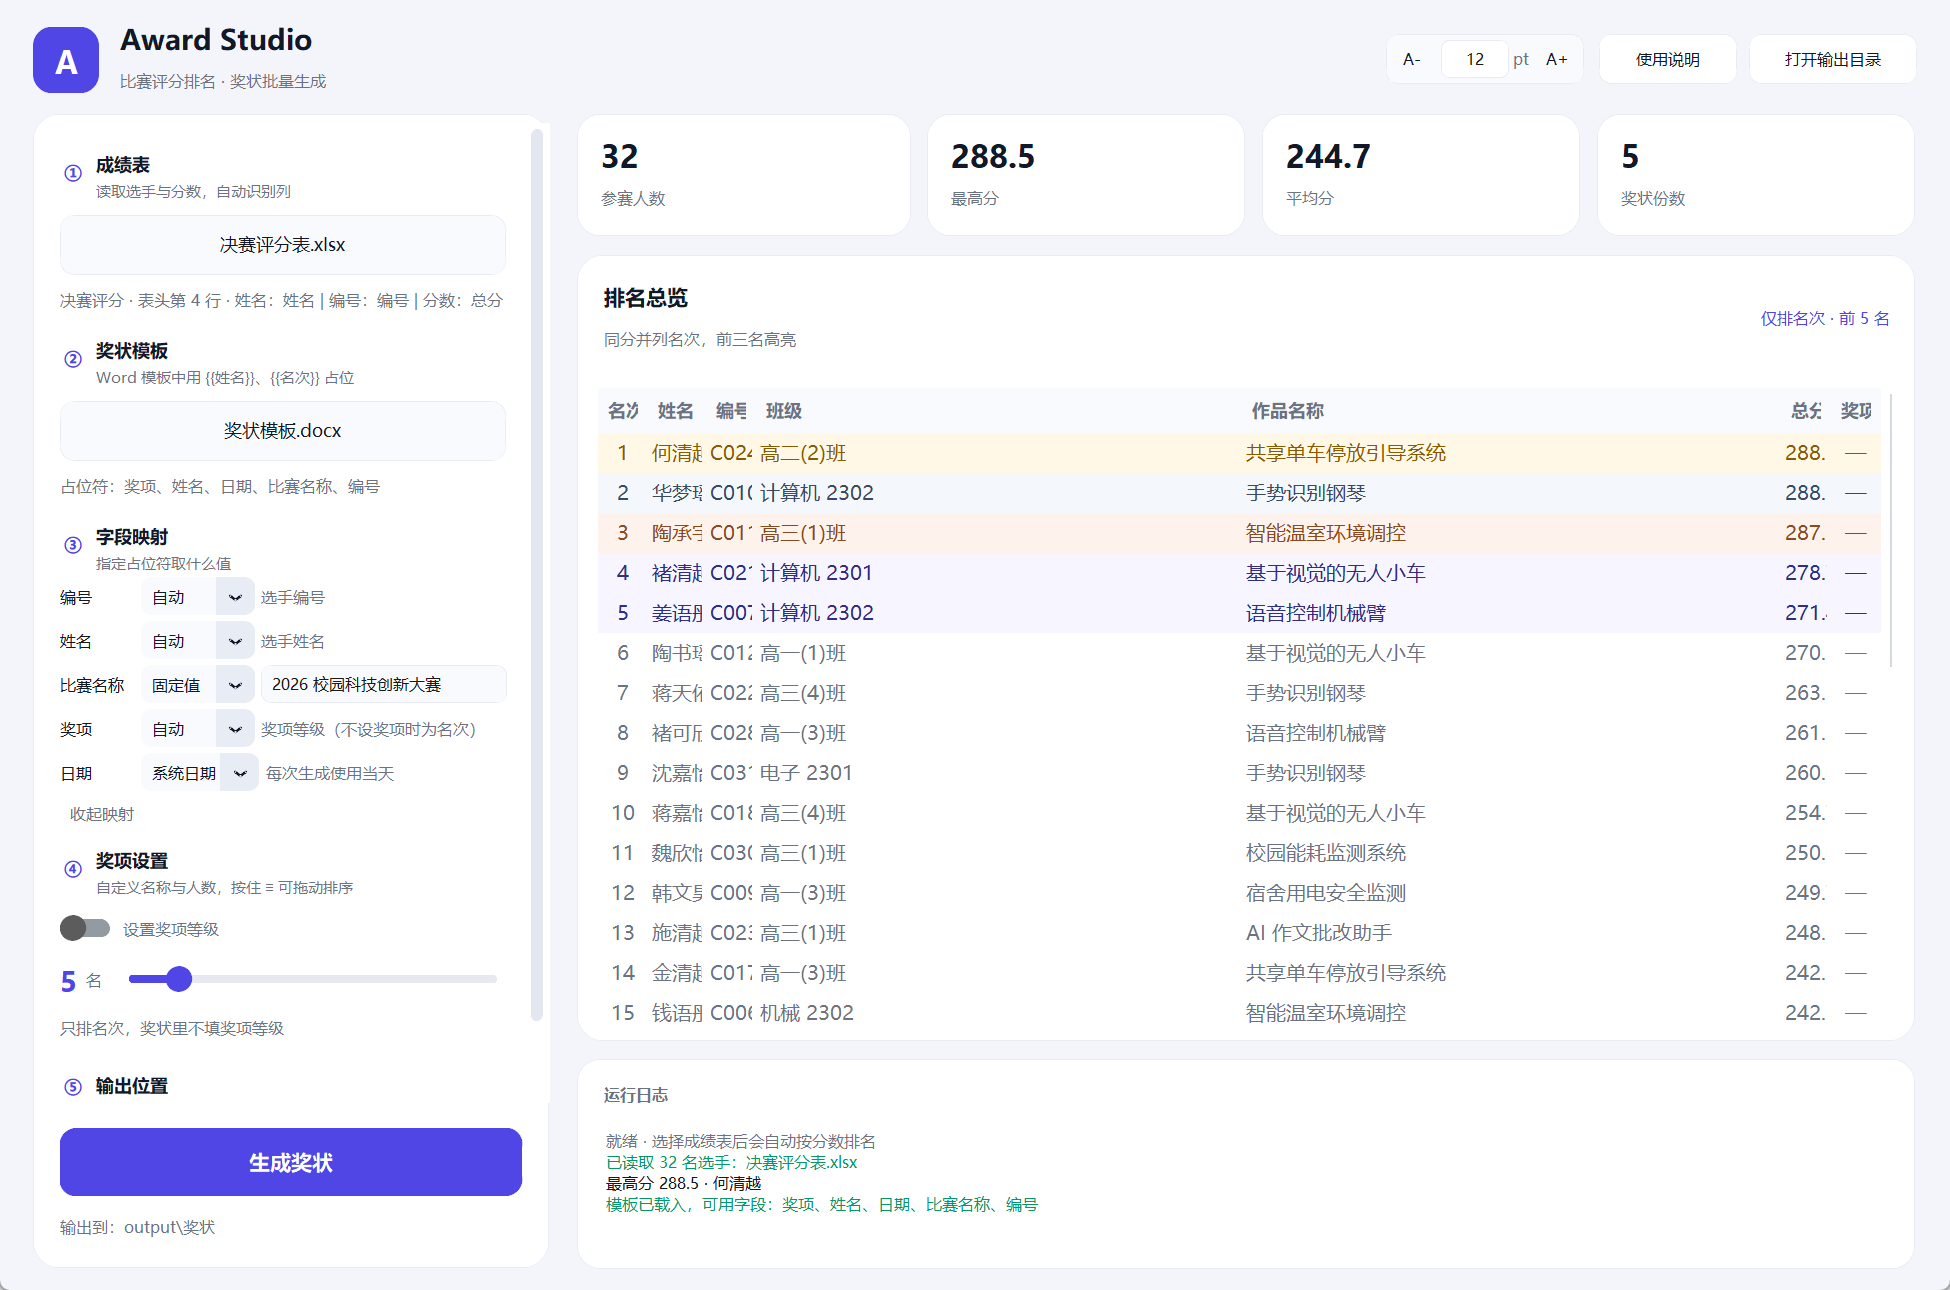
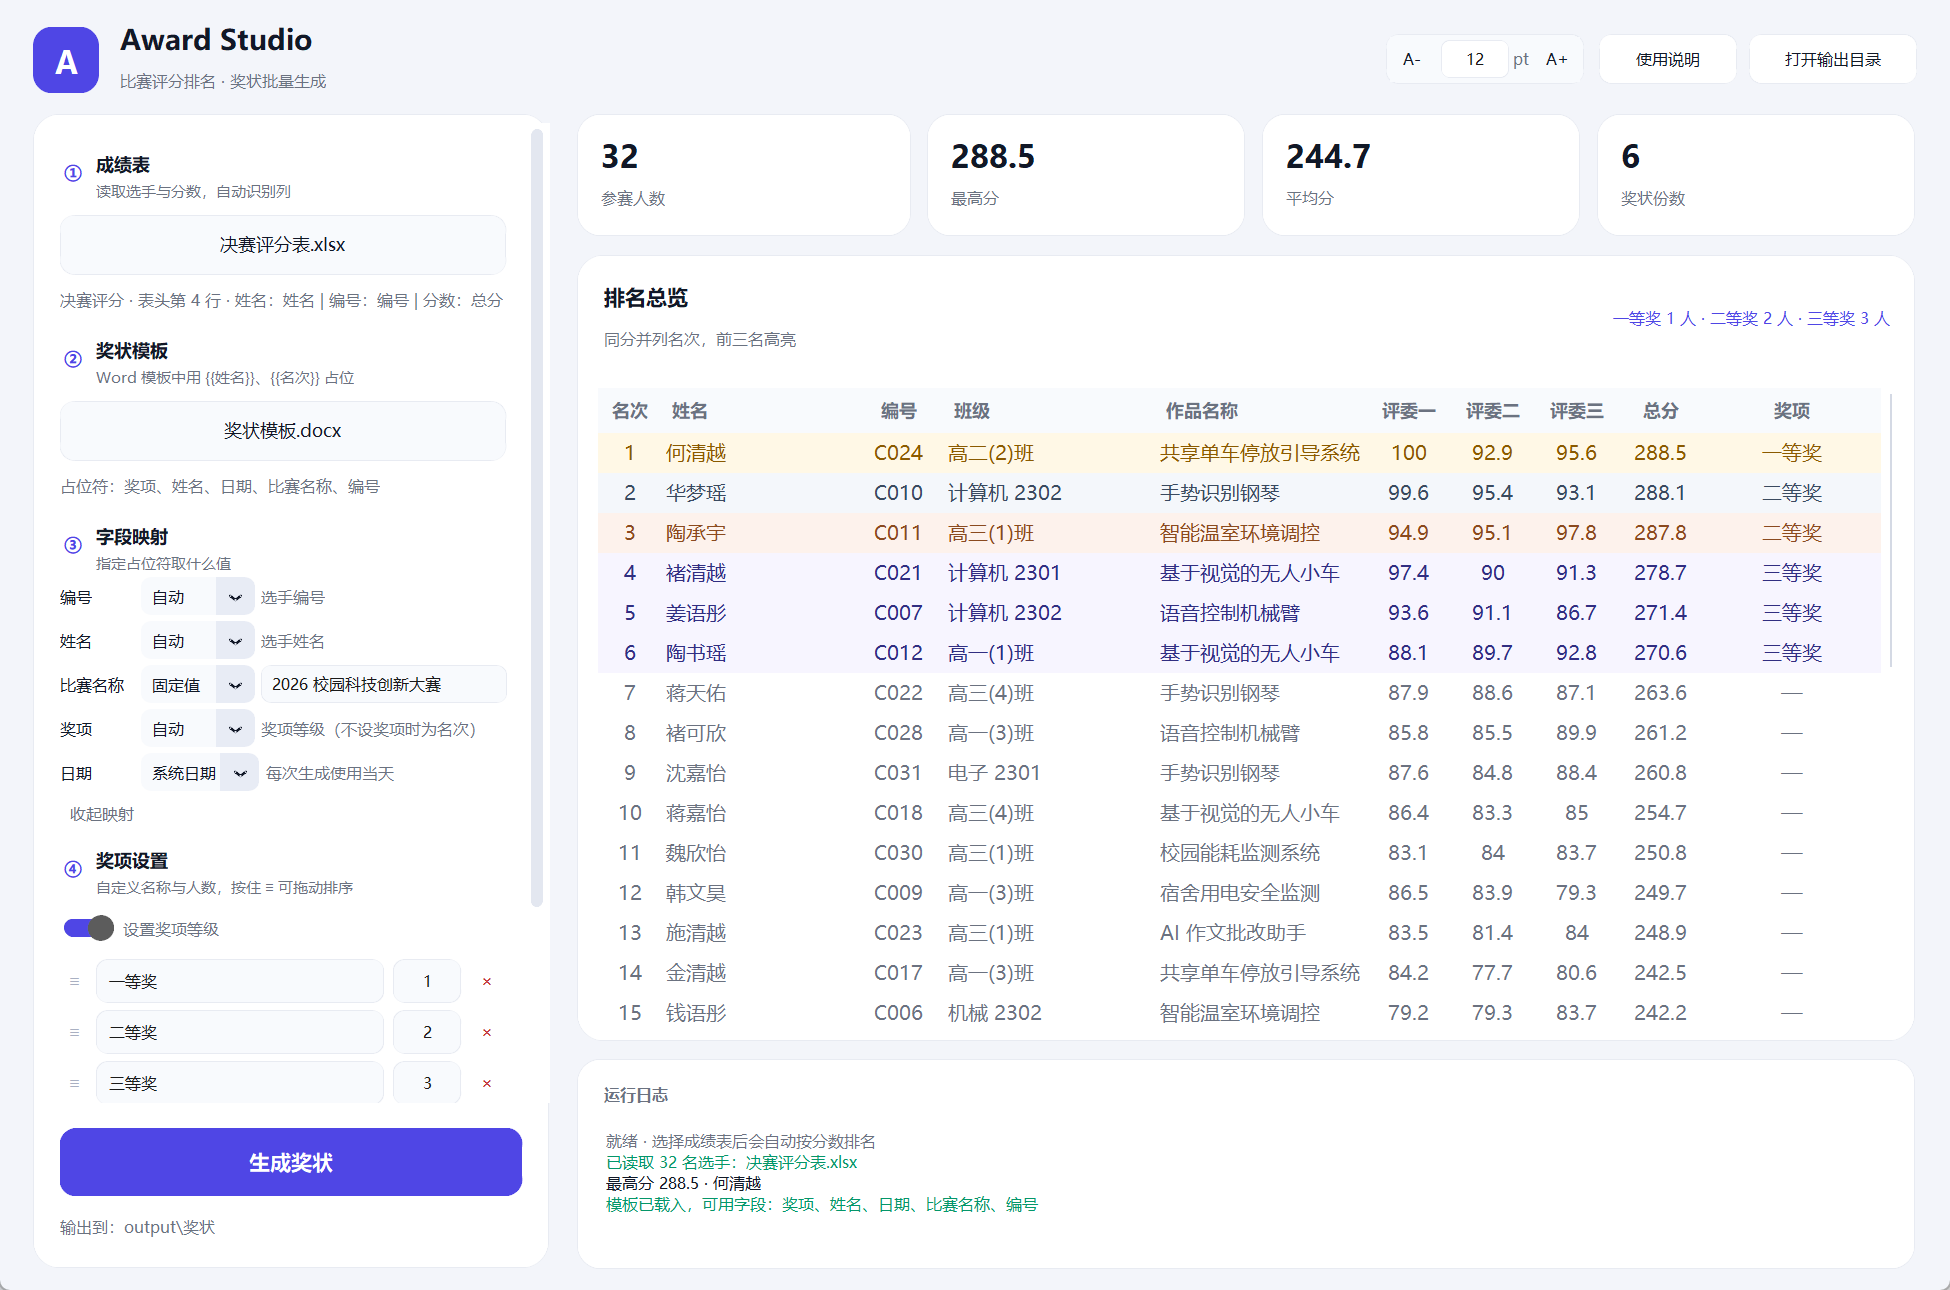
feat: 排名总览按成绩表的实际列显示
- 列由表格字段动态生成：名次 + 原始各列 + 总分 + 奖项，不再写死「班级」「作品名称」
- 整列都没有值的字段（例如表里没有编号）自动不显示
- 载入新表格时重建表格结构，列宽按内容比例分配，文本列承担富余宽度
- 奖励配色与并列名次逻辑保持不变

diff --git a/app.py b/app.py
@@ -604,16 +604,15 @@ class AwardStudio(ctk.CTk):
 
     def _fit_columns(self) -> None:
         self._resize_job = None
-        columns = (
-            ("rank", 70), ("name", 110), ("no", 90), ("class", 120),
-            ("project", 220), ("score", 90), ("award", 90),
-        )
+        columns = getattr(self, "_table_columns", None)
+        if not columns:
+            return
         try:
-            base_total = sum(base for _key, base in columns)
+            base_total = sum(width for _key, _text, width, _anchor in columns)
             available = max(420, self.tree.winfo_width() - 20)
-            factor = min(self.text_scale, 1.4, available / base_total)
-            for key, base in columns:
-                self.tree.column(key, width=max(50, int(base * factor)))
+            factor = min(self.text_scale, 1.5, max(1.0, available / base_total))
+            for key, _text, width, _anchor in columns:
+                self.tree.column(key, width=max(48, int(width * factor)))
         except Exception:  # noqa: BLE001
             pass
 
@@ -905,34 +904,10 @@ class AwardStudio(ctk.CTk):
         ctk.CTkFrame(table_card, height=1, fg_color=LINE).grid(row=1, column=0, sticky="ew",
                                                               padx=18, pady=(12, 0))
 
-        holder = ctk.CTkFrame(table_card, fg_color="transparent")
+        self.table_holder = holder = ctk.CTkFrame(table_card, fg_color="transparent")
         holder.grid(row=2, column=0, sticky="nsew", padx=(14, 8), pady=(6, 12))
         holder.grid_columnconfigure(0, weight=1)
         holder.grid_rowconfigure(0, weight=1)
-
-        columns = ("rank", "name", "no", "class", "project", "score", "award")
-        self.tree = ttk.Treeview(holder, columns=columns, show="headings", height=6,
-                                 style="Award.Treeview", selectmode="browse")
-        headings = {
-            "rank": ("名次", 70, "center"),
-            "name": ("姓名", 110, "w"),
-            "no": ("编号", 90, "center"),
-            "class": ("班级", 120, "w"),
-            "project": ("作品名称", 220, "w"),
-            "score": ("总分", 90, "center"),
-            "award": ("奖项", 90, "center"),
-        }
-        for key, (text, width, anchor) in headings.items():
-            self.tree.heading(key, text=text, anchor=anchor)
-            self.tree.column(key, width=width, anchor=anchor,
-                             stretch=key in ("project", "class"))
-        self.tree.grid(row=0, column=0, sticky="nsew")
-
-        self.table_scrollbar = scrollbar = ctk.CTkScrollbar(
-            holder, command=self.tree.yview, fg_color="transparent",
-            button_color="#D4D9E4", button_hover_color="#B9C0D0", width=10)
-        scrollbar.grid(row=0, column=1, sticky="ns", padx=(2, 4))
-        self.tree.configure(yscrollcommand=scrollbar.set)
 
         # 没有数据时显示占位提示，而不是一张空表格
         self.empty_panel = ctk.CTkFrame(holder, fg_color="transparent")
@@ -948,12 +923,8 @@ class AwardStudio(ctk.CTk):
             font=self.font_small, text_color="#A7AFC0", justify="center")
         self.empty_hint.pack()
 
-        self.tree.tag_configure("first", background="#FFF8E6", foreground="#8A5A00")
-        self.tree.tag_configure("second", background="#F4F7FB", foreground="#3A4A5F")
-        self.tree.tag_configure("third", background="#FDF2EC", foreground="#8A4A1F")
-        self.tree.tag_configure("winner", background="#F7F5FF", foreground="#312E81")
-        self.tree.tag_configure("normal", background=CARD, foreground=MUTED)
-        self.tree.bind("<Double-1>", self._open_certificate)
+        self._table_columns: list[tuple] = []
+        self._build_table()
         self.bind("<Configure>", self._on_window_resize)
 
         # 日志
@@ -1000,6 +971,7 @@ class AwardStudio(ctk.CTk):
         self.players = players
         self.excel_title = report.title
         self.column_names = list(players[0].fields.keys()) if players else []
+        self._build_table()
         self.excel_btn.configure(text=short(path.name, 24), text_color=INK)
         self.excel_hint.configure(
             text=f"{report.sheet} · 表头第 {report.header_row} 行 · {report.describe()}",
@@ -1564,6 +1536,67 @@ class AwardStudio(ctk.CTk):
             if top:
                 self._log(f"最高分 {top.player.score:g} · {top.player.name}", "info")
 
+    def _column_has_values(self, key: str) -> bool:
+        for player in self.players:
+            if str(player.fields.get(key, "")).strip():
+                return True
+        return False
+
+    def _table_column_specs(self) -> list[tuple]:
+        """列由成绩表的实际字段决定：名次 + 原始各列 + 总分 + 奖项。"""
+        specs: list[tuple] = [("rank", "名次", 64, "center")]
+        if self.players:
+            for key in self.players[0].fields:
+                if key == "分数":
+                    continue
+                # 整列都没有值的（比如表里没有编号）就不显示
+                if key != "姓名" and not self._column_has_values(key):
+                    continue
+                width = {"姓名": 110, "编号": 90}.get(key, 130)
+                if key.startswith("评委"):
+                    width = 84
+                anchor = "center" if key in ("编号",) or key.startswith("评委") else "w"
+                specs.append((key, key, width, anchor))
+            specs.append(("score", "总分", 84, "center"))
+        else:
+            specs += [("name", "姓名", 110, "w"), ("no", "编号", 90, "center"),
+                      ("score", "总分", 84, "center")]
+        specs.append(("award", "奖项", 96, "center"))
+        return specs
+
+    def _build_table(self) -> None:
+        """按当前字段重建排名表（列会随成绩表变化）。"""
+        holder = self.table_holder
+        for child in list(holder.winfo_children()):
+            if child is self.empty_panel:
+                continue
+            child.destroy()
+
+        self._table_columns = self._table_column_specs()
+        keys = [spec[0] for spec in self._table_columns]
+        self.tree = ttk.Treeview(holder, columns=keys, show="headings", height=6,
+                                 style="Award.Treeview", selectmode="browse")
+        for key, text, width, anchor in self._table_columns:
+            self.tree.heading(key, text=text, anchor=anchor)
+            # 文本类列与奖项列承担富余宽度，数值列保持紧凑
+            stretch = anchor == "w" or key == "award"
+            self.tree.column(key, width=width, minwidth=48, anchor=anchor, stretch=stretch)
+        self.tree.grid(row=0, column=0, sticky="nsew")
+
+        self.table_scrollbar = ctk.CTkScrollbar(
+            holder, command=self.tree.yview, fg_color="transparent",
+            button_color="#D4D9E4", button_hover_color="#B9C0D0", width=10)
+        self.table_scrollbar.grid(row=0, column=1, sticky="ns", padx=(2, 4))
+        self.tree.configure(yscrollcommand=self.table_scrollbar.set)
+
+        self.tree.tag_configure("first", background="#FFF8E6", foreground="#8A5A00")
+        self.tree.tag_configure("second", background="#F4F7FB", foreground="#3A4A5F")
+        self.tree.tag_configure("third", background="#FDF2EC", foreground="#8A4A1F")
+        self.tree.tag_configure("winner", background="#F7F5FF", foreground="#312E81")
+        self.tree.tag_configure("normal", background=CARD, foreground=MUTED)
+        self.tree.bind("<Double-1>", self._open_certificate)
+        self._fit_columns()
+
     def _show_empty_state(self, empty: bool) -> None:
         """没有数据时用占位提示替代空表格，避免看起来像残留。"""
         try:
@@ -1585,17 +1618,15 @@ class AwardStudio(ctk.CTk):
         self._show_empty_state(False)
         self.tree.delete(*self.tree.get_children())
         for index, entry in enumerate(self.entries):
-            extras = entry.player.extras
+            fields = entry.player.fields
             award_text = (entry.award or "—") if entry.is_winner else "—"
-            values = (
-                entry.rank,
-                entry.player.name,
-                entry.player.no or "—",
-                extras.get("班级", "—"),
-                extras.get("作品名称", "—"),
-                f"{entry.player.score:g}",
-                award_text,
-            )
+            values = [entry.rank]
+            for key, _text, _width, _anchor in self._table_columns[1:-1]:
+                if key == "score":
+                    values.append(f"{entry.player.score:g}")
+                else:
+                    values.append(fields.get(key, "") or "—")
+            values.append(award_text)
             if entry.is_winner and index == 0:
                 tag = "first"
             elif entry.is_winner and index == 1:
